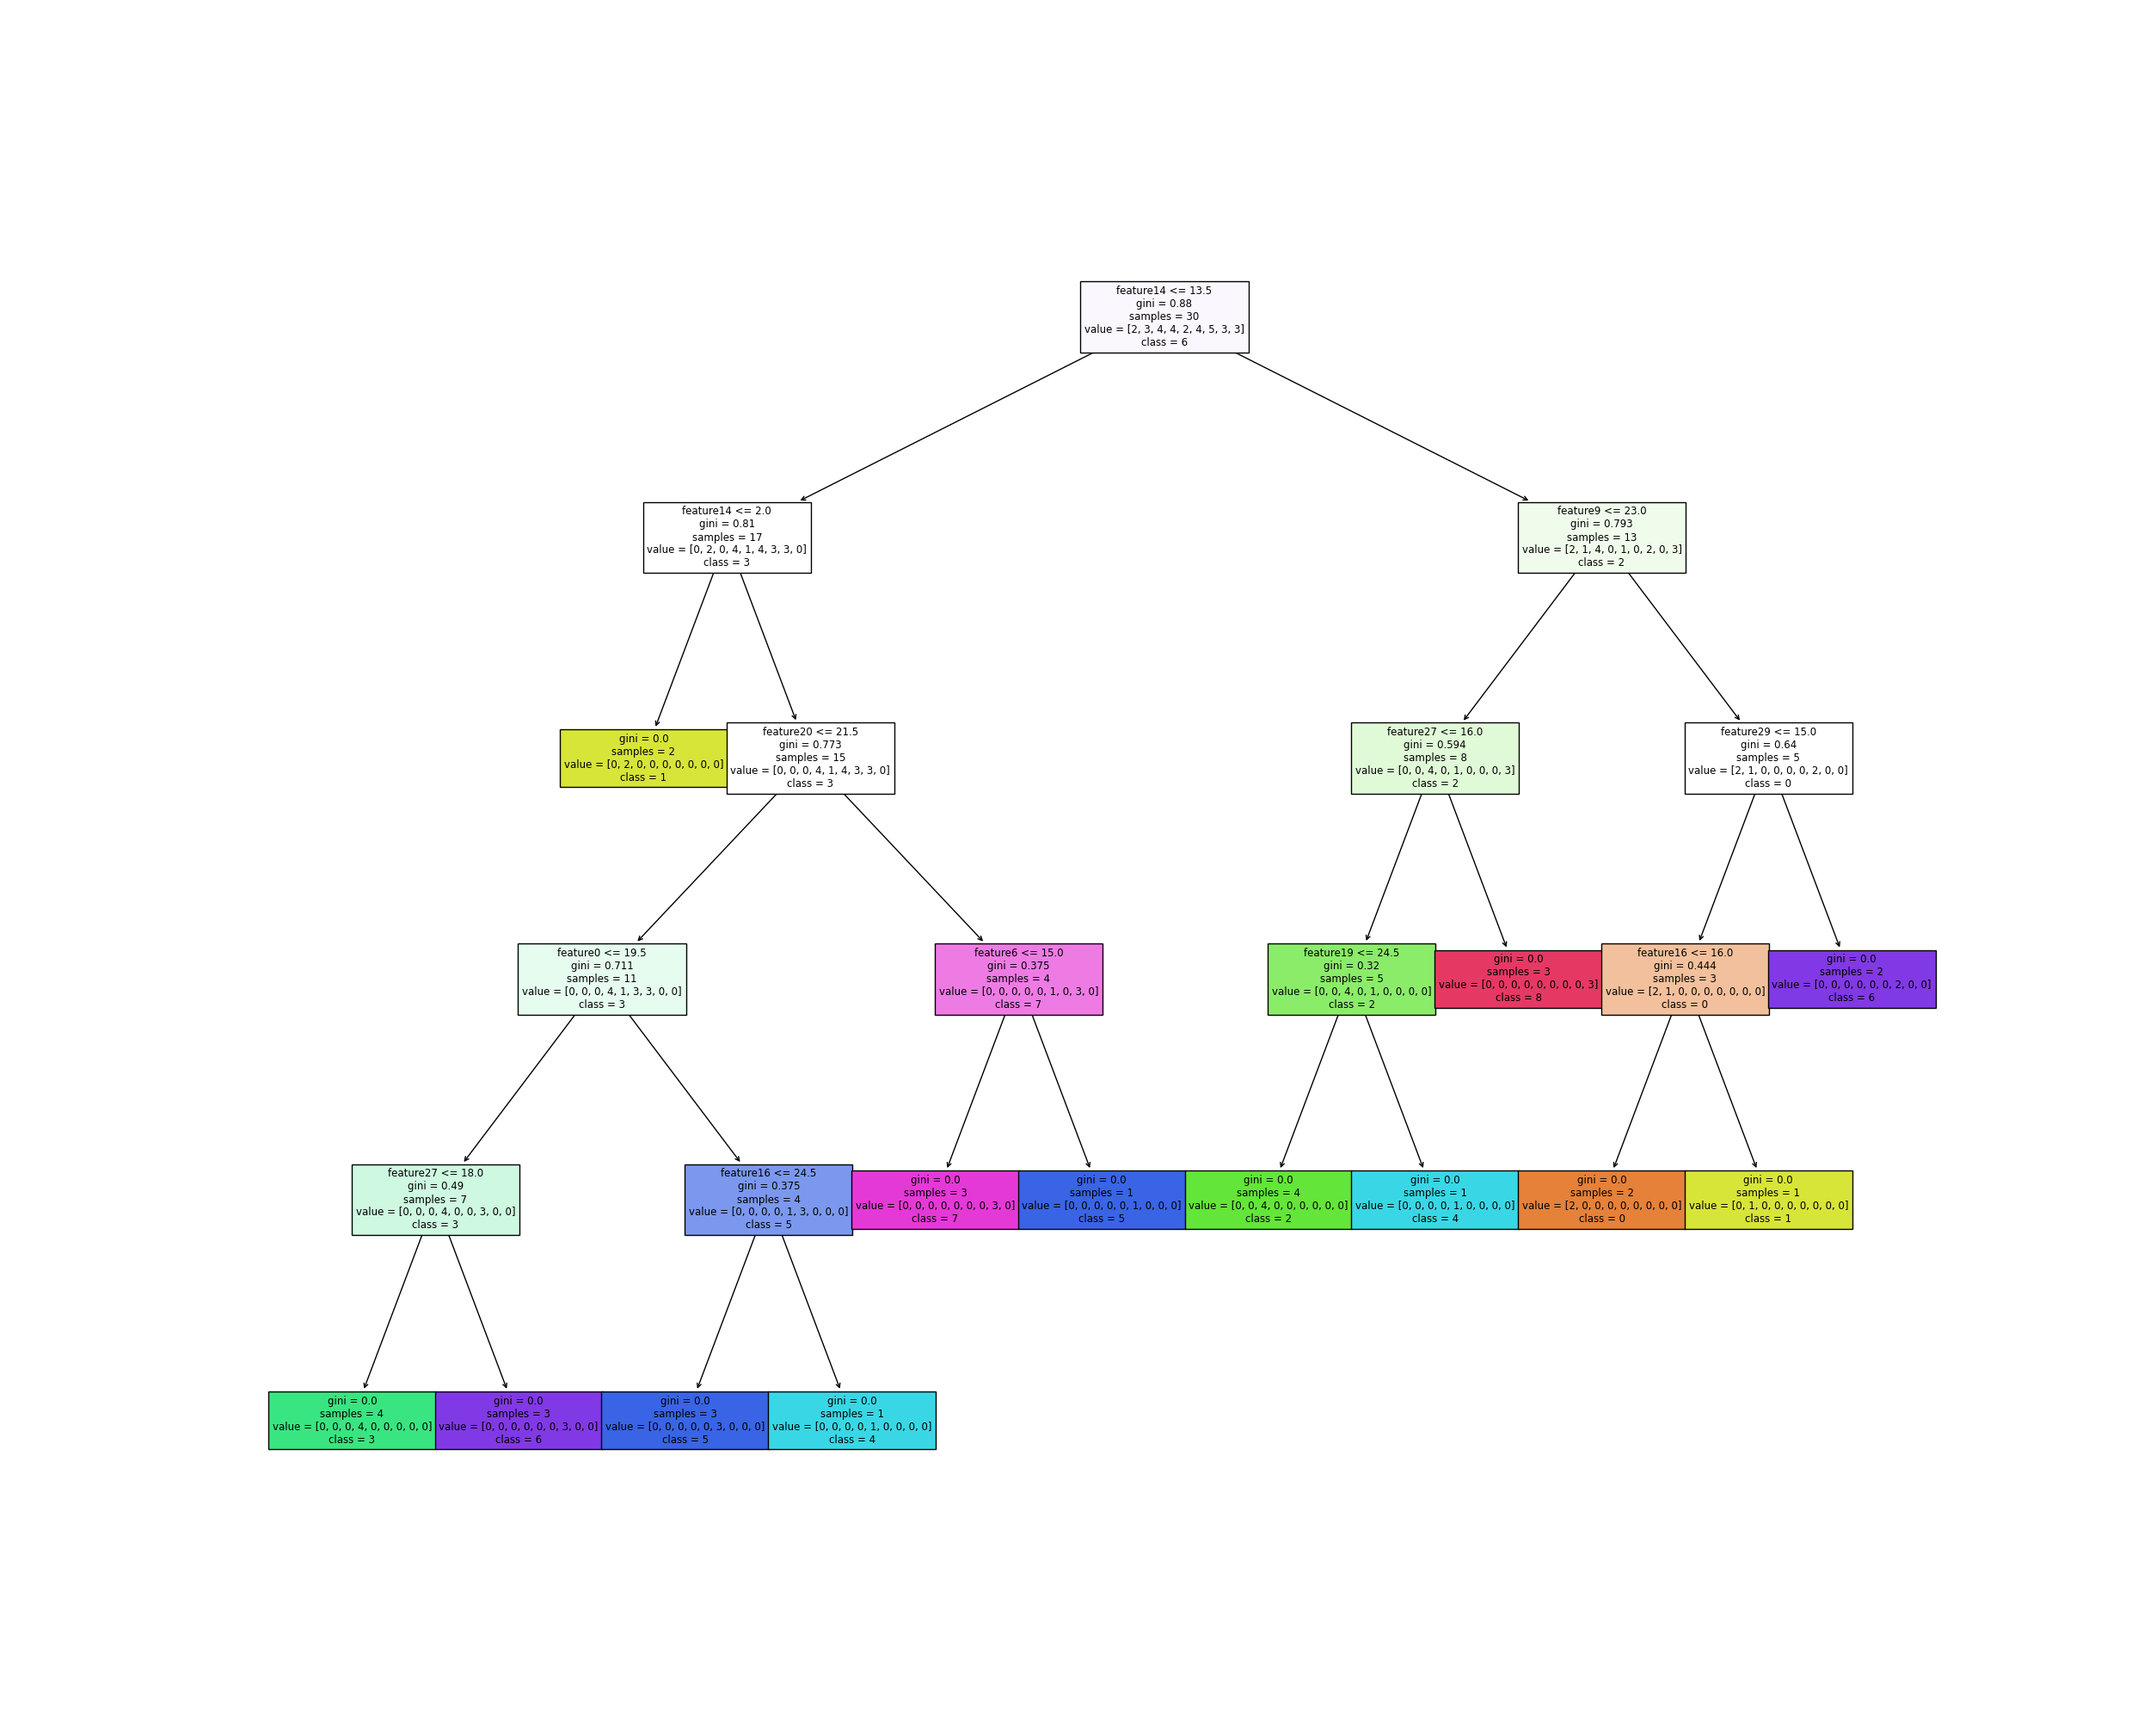
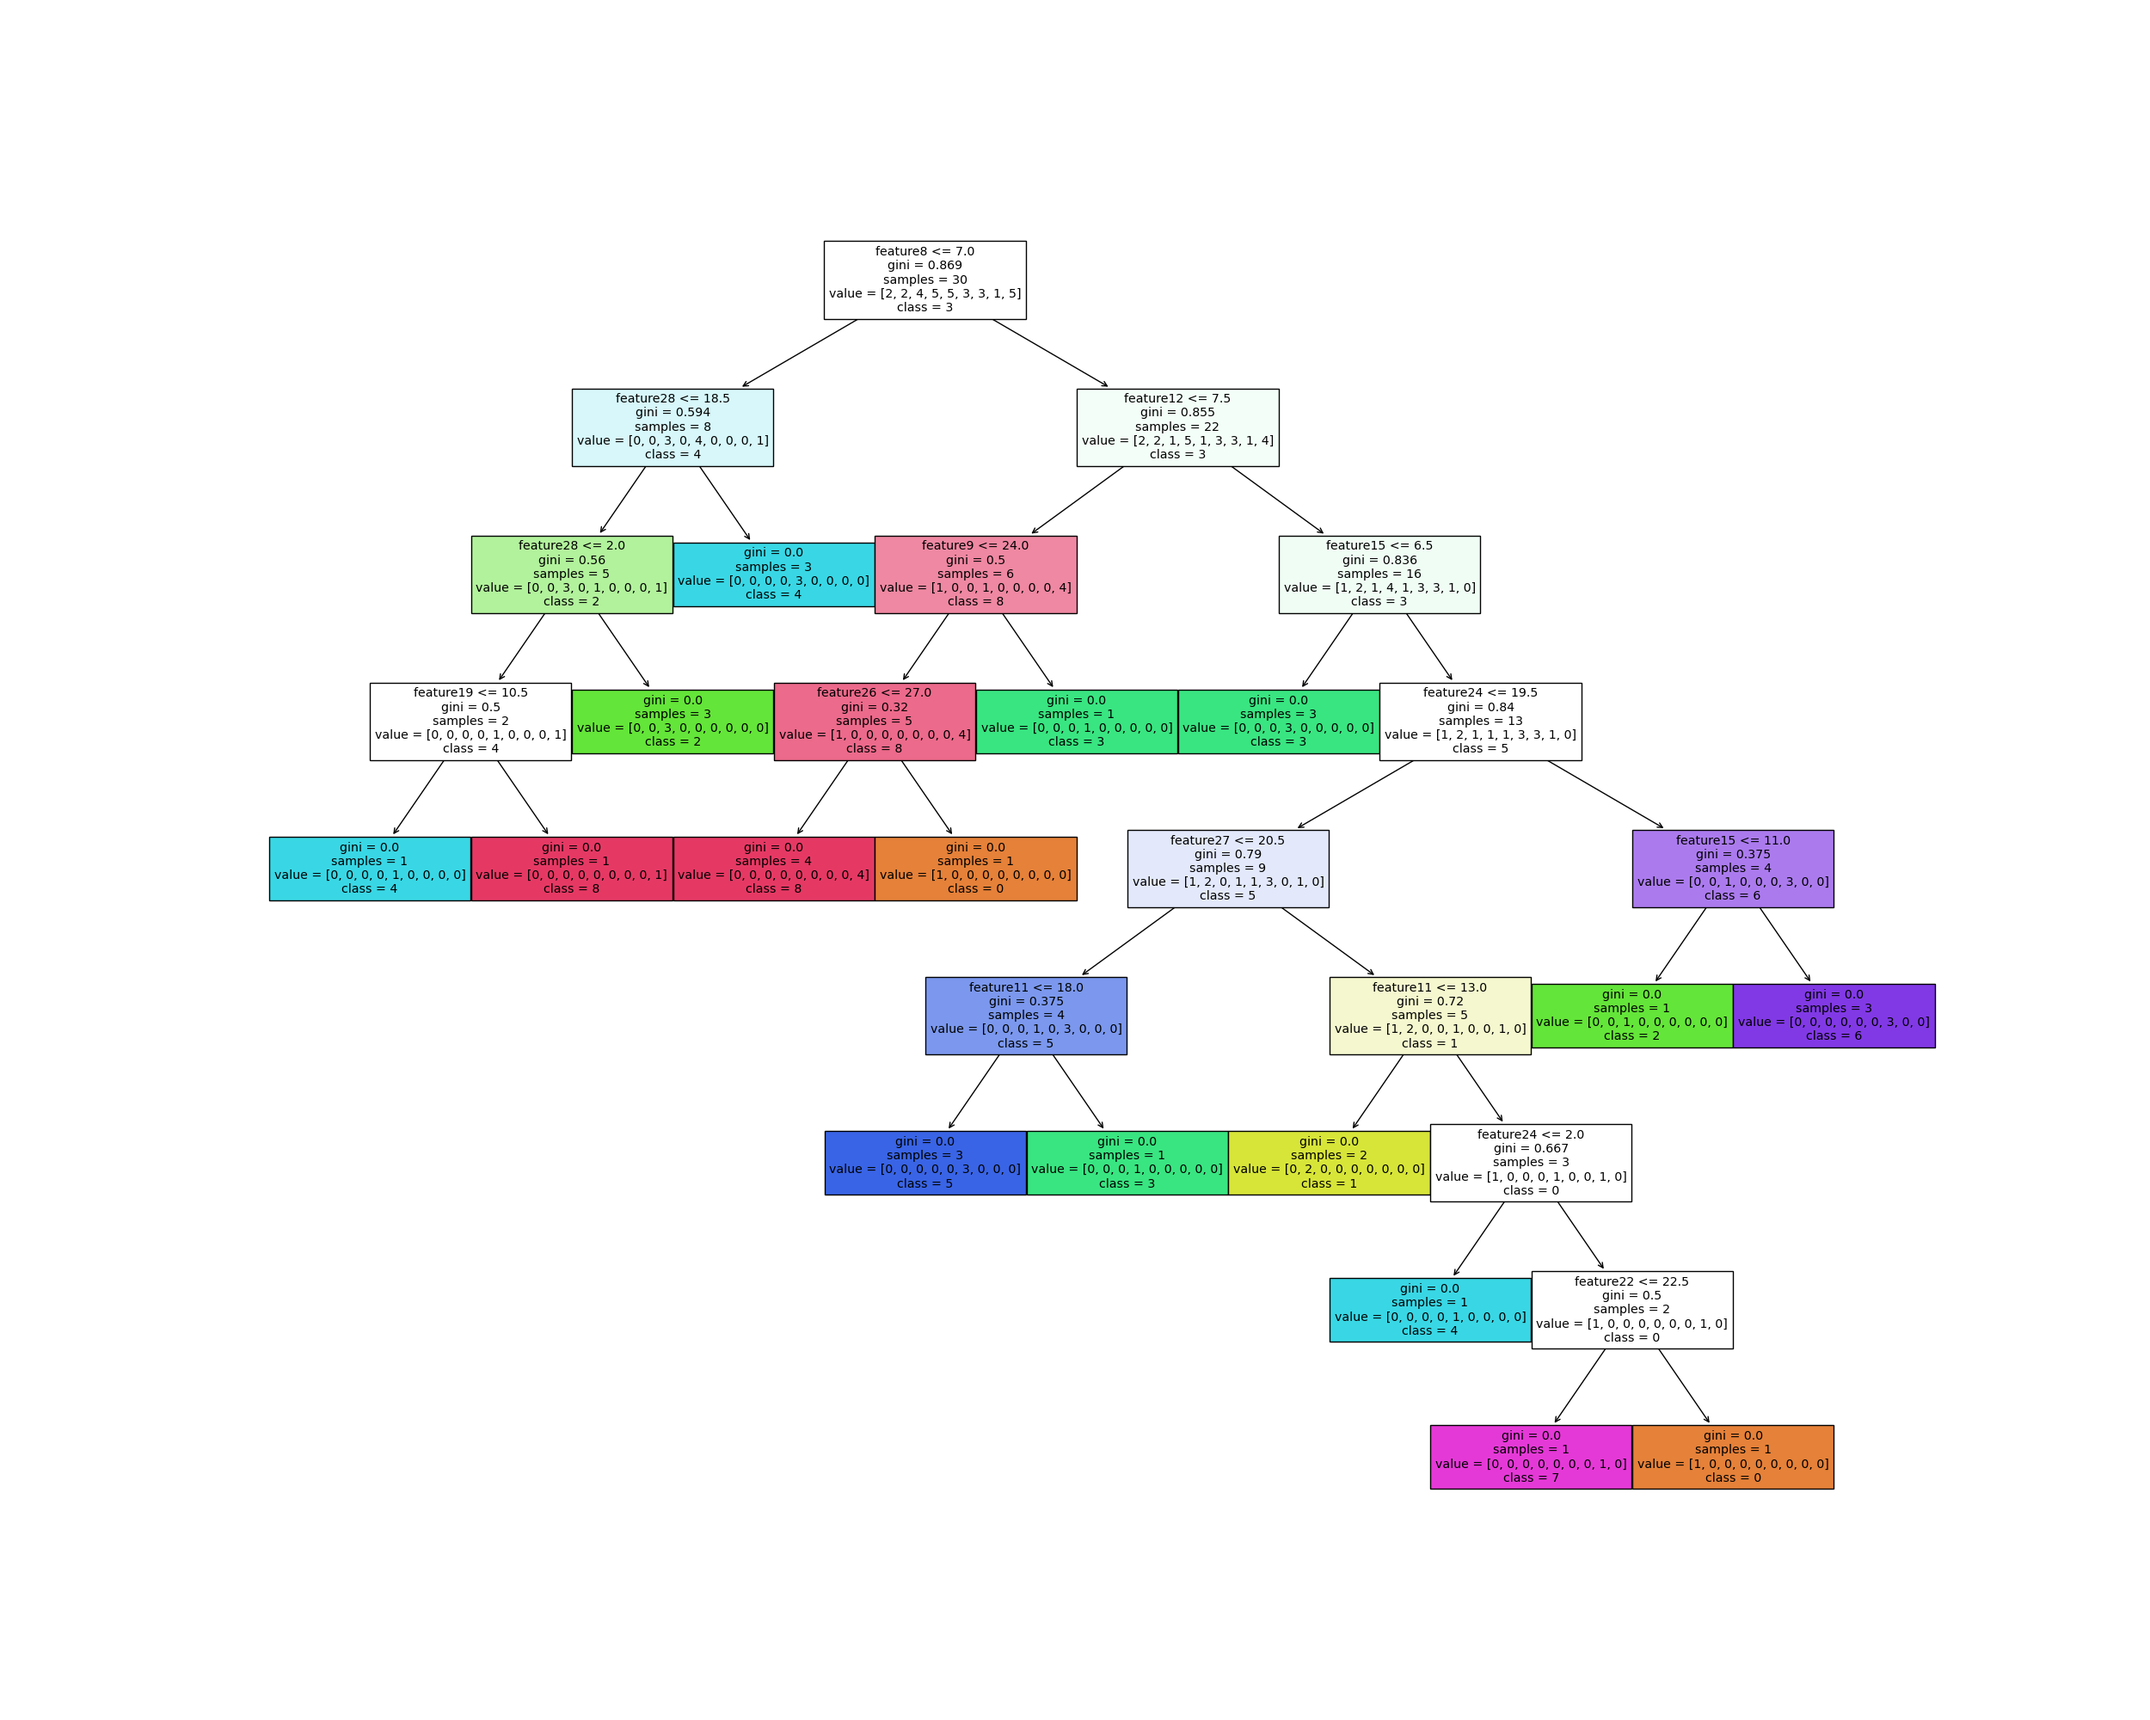
Added Boruta Strategy

diff --git a/feature_selection/Boruta_Strategy.py b/feature_selection/Boruta_Strategy.py
@@ -1,0 +1,36 @@
+import numpy
+from . import config_fs
+from boruta import BorutaPy
+from sklearn.ensemble import RandomForestClassifier
+
+
+local_config = config_fs.Config()
+local_config.build_data()
+
+class Boruta_Strategy:
+    def __init__(self, proessed_data):
+        self.data = proessed_data.values
+        self.feature_columns = []
+        if local_config.if_use_default_label:
+            self.labels = numpy.random.randint(10, size=30)
+        else:
+            self.labels = local_config.labels
+        if local_config.if_use_default_feature_columns:
+            for i in range(self.data.shape[1]):
+                self.feature_columns.append("feature"+str(i))
+        else:
+            self.feature_columns = local_config.feature_columns
+
+        self.forest = RandomForestClassifier(n_jobs=local_config.n_jobs, class_weight=local_config.class_weight, max_depth=local_config.max_depth)
+        self.forest.fit(self.data, self.labels)
+
+    def slimming(self):
+        self.feature_selector = BorutaPy(self.forest, n_estimators=local_config.n_estimators, verbose=local_config.verbose, random_state=local_config.random_state)
+        self.feature_selector.fit(self.data, self.labels)
+        self.processed_data = self.feature_selector.transform(self.data)
+    
+    def show_feature_names(self):
+        self.new_feature_names = self.feature_selector.support_
+        
+    def standardization(self):
+        pass

diff --git a/main.py b/main.py
@@ -1,6 +1,7 @@
 from data_preprocessing.processor import data_frame_builder
 from dimension_reduction.PCA_strategy import PCA_strategy
 from feature_selection.KBest_Strategy import KBest_Strategy
+from feature_selection.Boruta_Strategy import Boruta_Strategy
 from decision_tree.tree_builder import Decision_Tree
 import config
 
@@ -16,6 +17,8 @@ def main():
         data_slimming_strategy = KBest_Strategy(preprocessed_data)
     elif local_config.data_slimming_strategy == "PCA":
         data_slimming_strategy = PCA_strategy(preprocessed_data)
+    elif local_config.data_slimming_strategy == "Boruta":
+        data_slimming_strategy = Boruta_Strategy(preprocessed_data)
 
     data_slimming_strategy.standardization()
     data_slimming_strategy.slimming()
@@ -25,6 +28,9 @@ def main():
         feature_names = data_slimming_strategy.new_feature_names
     elif local_config.data_slimming_strategy == "PCA":
         feature_names = data_slimming_strategy.feature_columns
+    elif local_config.data_slimming_strategy == "Boruta":
+        data_slimming_strategy.show_feature_names()
+        feature_names = data_slimming_strategy.new_feature_names
 
     decision_tree = Decision_Tree(data_slimming_strategy.processed_data, data_slimming_strategy.labels, feature_names)
     decision_tree.train()

diff --git a/feature_selection/config_fs.py b/feature_selection/config_fs.py
@@ -5,6 +5,13 @@ class Config:
         self.labels = []
         self.if_use_default_label = True
         self.k = 20
+
+        self.n_jobs = -1
+        self.class_weight = 'balanced'
+        self.max_depth = 5
+        self.n_estimators = 'auto'
+        self.verbose = 2
+        self.random_state = 1
     
     def build_data(self):
         pass

diff --git a/config.py b/config.py
@@ -1,3 +1,3 @@
 class Config:
     def __init__(self):
-        self.data_slimming_strategy = "KBest"
+        self.data_slimming_strategy = "Boruta"
